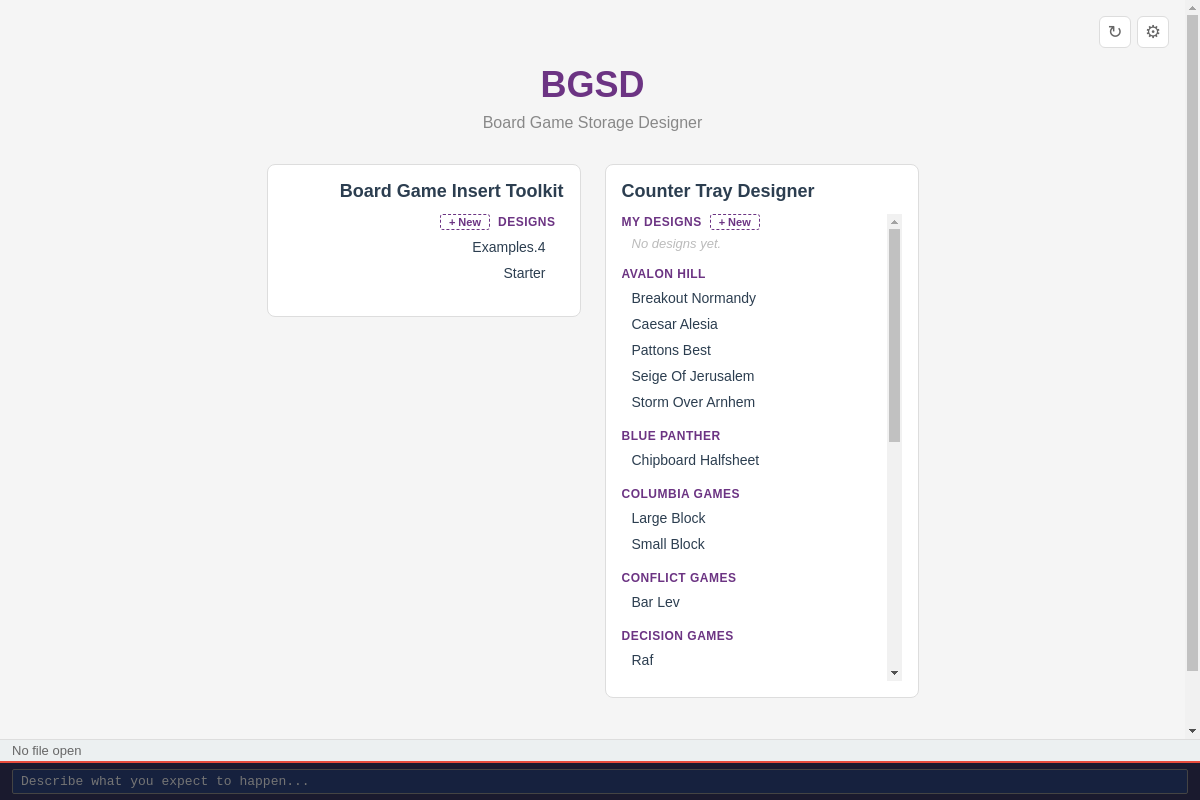
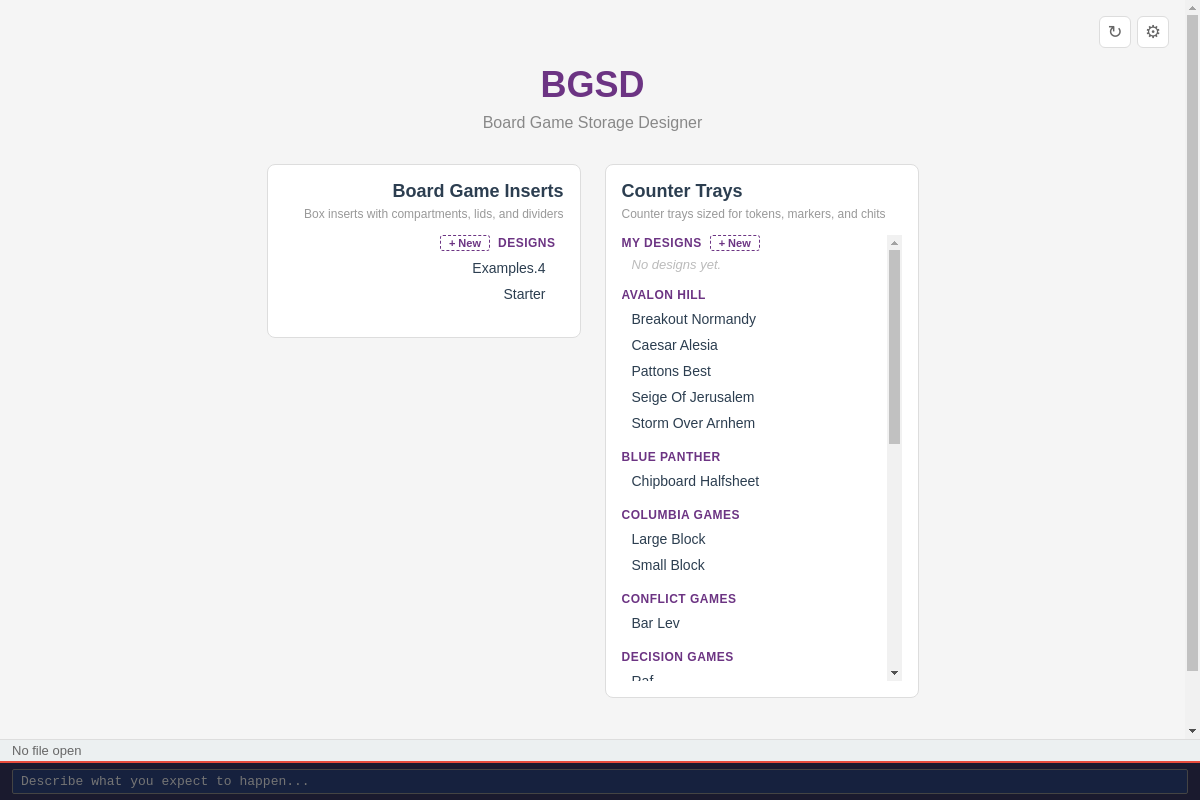
feat: add profile descriptions, shorten panel titles

Changed region(s): [[0.5242, 0.2188, 0.74, 0.8438], [0.2467, 0.2188, 0.4625, 0.375], [0.74, 0.2812, 0.7708, 0.3125]]

diff --git a/src/App.svelte b/src/App.svelte
@@ -1358,13 +1358,14 @@
           {/if}
 
           <div class="welcome-columns" data-testid="welcome-columns">
-            {#each [["bit", "Board Game Insert Toolkit"], ["ctd", "Counter Tray Designer"]] as [profileId, profileLabel]}
+            {#each [["bit", "Board Game Inserts", "Box inserts with compartments, lids, and dividers"], ["ctd", "Counter Trays", "Counter trays sized for tokens, markers, and chits"]] as [profileId, profileLabel, profileDesc]}
             {@const tree = libraryTree[profileId]}
             {@const pubs = tree?.publishers}
             {@const designsDir = tree?.designsDir || "designs"}
             {@const pubKeys = pubs ? Object.keys(pubs).sort() : []}
             <div class="welcome-col" class:welcome-col-right-align={profileId === "bit"} data-testid="welcome-col-{profileId}">
               <h2 class="welcome-library-title">{profileLabel}</h2>
+              <p class="welcome-library-desc">{profileDesc}</p>
               <div class="welcome-library-scroll">
                 {#if !pubKeys.includes(designsDir)}
                   <div class="welcome-library-publisher">
@@ -2051,7 +2052,8 @@
   .welcome-col-right-align .welcome-publisher-row { flex-direction: row-reverse; }
   .welcome-col-right-align .welcome-library-game { text-align: right; }
   .welcome-col-right-align .welcome-library-empty-folder { text-align: right; }
-  .welcome-library-title { font-size: 18px; font-weight: 600; color: #2c3e50; margin: 0 0 12px; }
+  .welcome-library-title { font-size: 18px; font-weight: 600; color: #2c3e50; margin: 0 0 4px; }
+  .welcome-library-desc { font-size: 12px; color: #999; margin: 0 0 12px; line-height: 1.4; }
   .welcome-library-scroll { overflow-y: auto; flex: 1; padding-right: 8px; }
   .welcome-library-publisher { margin-bottom: 14px; }
   .welcome-publisher-row { display: flex; align-items: center; gap: 8px; margin: 0 0 4px; }

diff --git a/README.md b/README.md
@@ -2,7 +2,7 @@
 
 A visual desktop editor for creating parametric 3D-printable board game inserts using OpenSCAD libraries. No OpenSCAD coding required.
 
-![BGSD Welcome](images/bgsd_welcome.png?v=2)
+![BGSD Welcome](images/bgsd_welcome.png?v=3)
 
 ## Download
 
